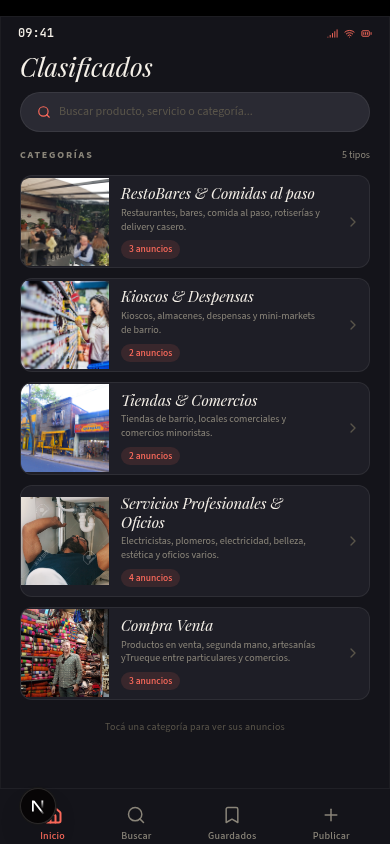
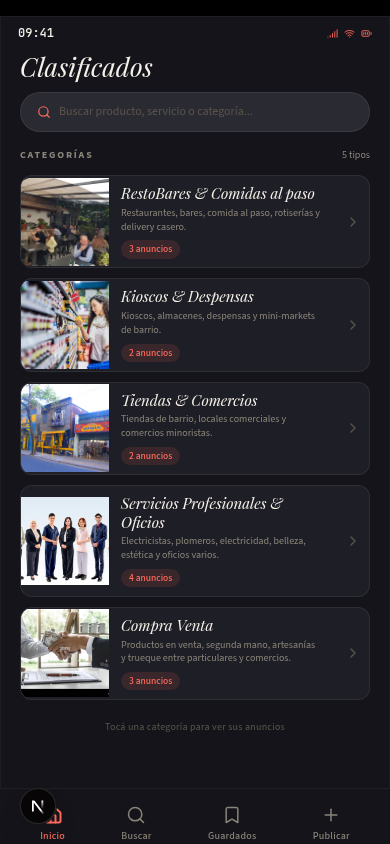
0d20977e-211c-43e1-9cc6-7b4972addf90

diff --git a/src/lib/data.ts b/src/lib/data.ts
@@ -72,7 +72,7 @@ export const categorias: Categoria[] = [
     descripcion:
       "Electricistas, plomeros, electricidad, belleza, estética y oficios varios.",
     imagen:
-      "https://z-cdn.chatglm.cn/image-search-mcp/images-ppt/ff3078d85532.jpg",
+      "https://z-cdn.chatglm.cn/image-search-mcp/images-ppt/970a9d6d99c3.jpg",
   },
   {
     id: "compraventa",
@@ -81,7 +81,7 @@ export const categorias: Categoria[] = [
     descripcion:
       "Productos en venta, segunda mano, artesanías y trueque entre particulares y comercios.",
     imagen:
-      "https://z-cdn.chatglm.cn/image-search-mcp/images-ppt/3c02bc0d3ea1.jpg",
+      "https://z-cdn.chatglm.cn/image-search-mcp/images-ppt/2d7d9422a521.jpg",
   },
 ];
 
